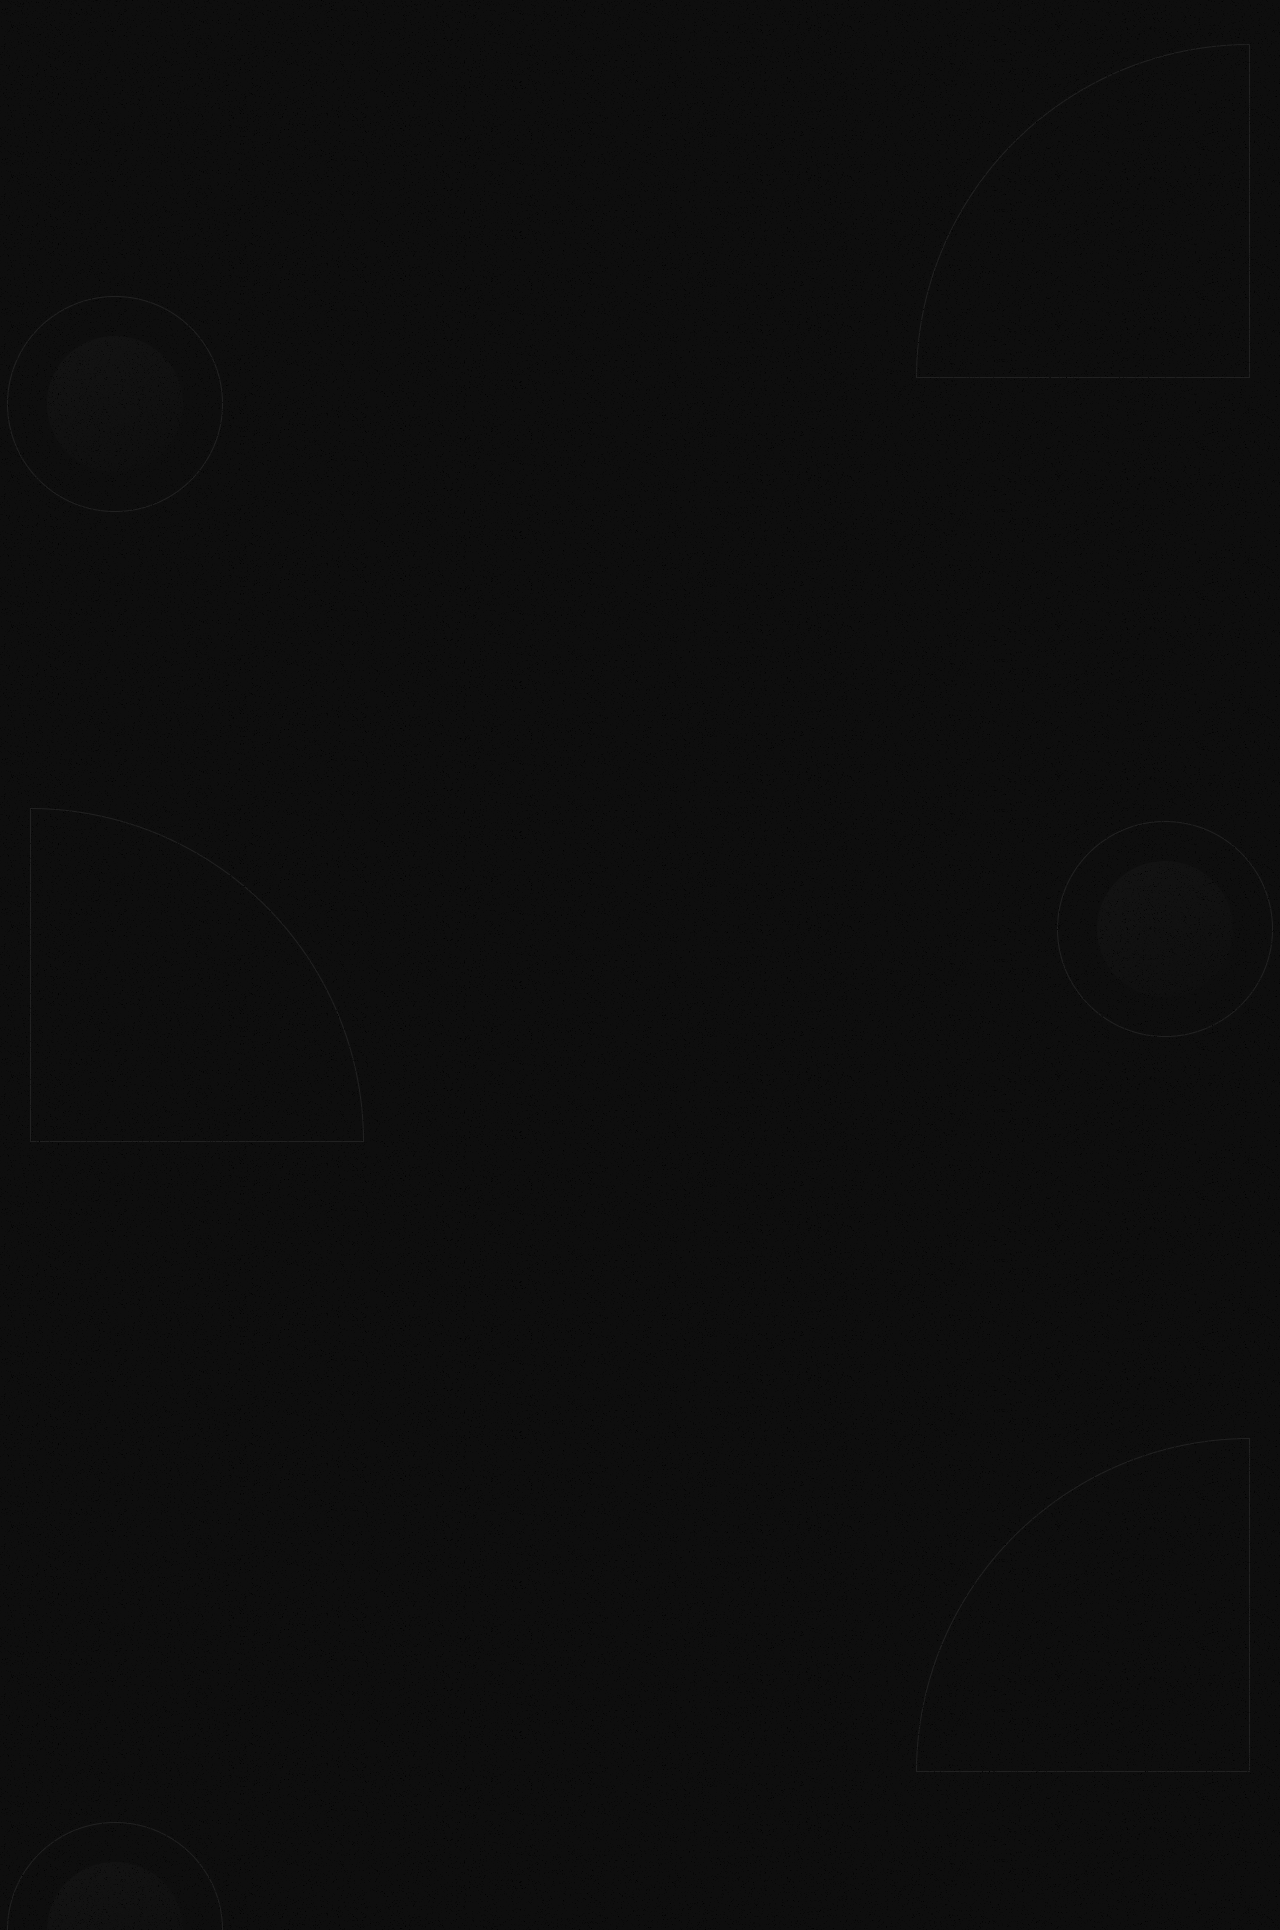
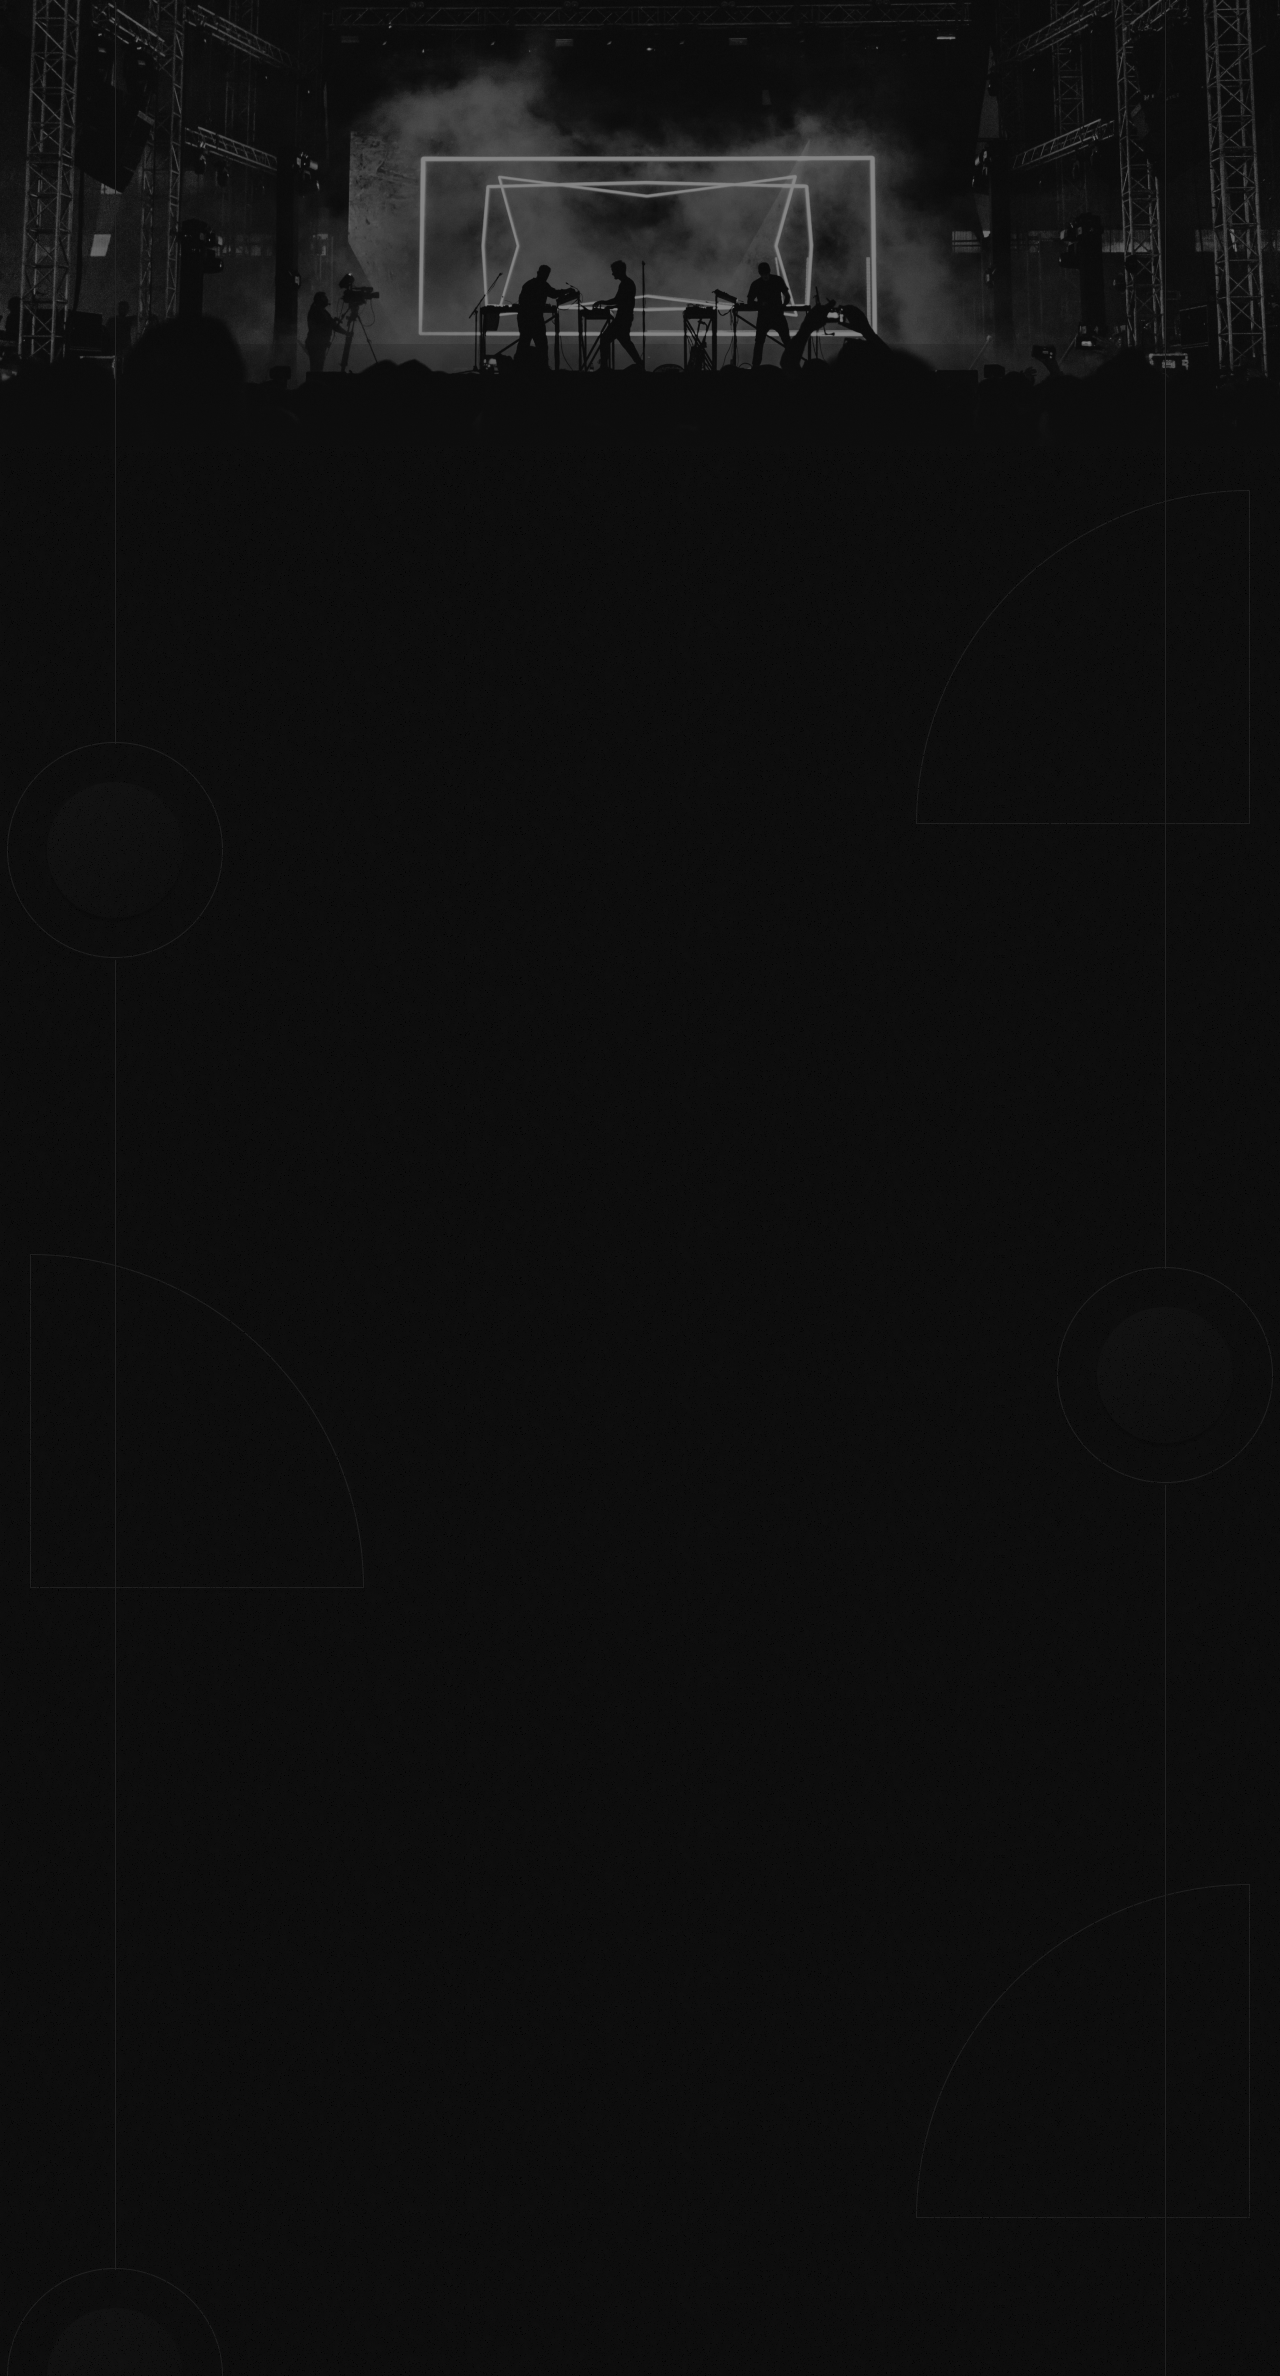
background rework

diff --git a/src/sass/layouts/_header-hero.scss b/src/sass/layouts/_header-hero.scss
@@ -53,79 +53,79 @@
   padding-right: auto;
   height: 364px;
   min-width: 320px;
-  background-size: contain;
-  background-repeat: no-repeat;
-  background-position: top center;
-  background-image: linear-gradient(
-      to top,
-      transparent,
-      var(--background-overlay),
-      var(--background-overlay),
-      var(--background-overlay)
-    ),
-    url(../../src/images/hero/hero-mob.jpg);
+  // background-size: contain;
+  // background-repeat: no-repeat;
+  // background-position: top center;
+  // background-image: linear-gradient(
+  //     to top,
+  //     transparent,
+  //     var(--background-overlay),
+  //     var(--background-overlay),
+  //     var(--background-overlay)
+  //   ),
+  //   url(../../src/images/hero/hero-mob.jpg);
 
-  @media (min-device-pixel-ratio: 2),
-    (min-resolution: 192dpi),
-    (min-resolution: 2dppx) {
-    background-image: linear-gradient(
-        to top,
-        transparent,
-        var(--background-overlay),
-        var(--background-overlay),
-        var(--background-overlay)
-      ),
-      url(../../src/images/hero/hero-mob-2x.jpg);
-  }
+  // @media (min-device-pixel-ratio: 2),
+  //   (min-resolution: 192dpi),
+  //   (min-resolution: 2dppx) {
+  //   background-image: linear-gradient(
+  //       to top,
+  //       transparent,
+  //       var(--background-overlay),
+  //       var(--background-overlay),
+  //       var(--background-overlay)
+  //     ),
+  //     url(../../src/images/hero/hero-mob-2x.jpg);
+  // }
 
-  @media screen and (min-width: 321px) {
-    background-image: linear-gradient(
-        to top,
-        transparent,
-        var(--background-overlay),
-        var(--background-overlay),
-        var(--background-overlay)
-      ),
-      url(../../src/images/hero/hero-tab.jpg);
+  // @media screen and (min-width: 321px) {
+  //   background-image: linear-gradient(
+  //       to top,
+  //       transparent,
+  //       var(--background-overlay),
+  //       var(--background-overlay),
+  //       var(--background-overlay)
+  //     ),
+  //     url(../../src/images/hero/hero-tab.jpg);
 
-    @media (min-device-pixel-ratio: 2),
-      (min-resolution: 192dpi),
-      (min-resolution: 2dppx) {
-      background-image: linear-gradient(
-          to top,
-          transparent,
-          var(--background-overlay),
-          var(--background-overlay),
-          var(--background-overlay)
-        ),
-        url(../../src/images/hero/hero-tab-2x.jpg);
-    }
-  }
+  //   @media (min-device-pixel-ratio: 2),
+  //     (min-resolution: 192dpi),
+  //     (min-resolution: 2dppx) {
+  //     background-image: linear-gradient(
+  //         to top,
+  //         transparent,
+  //         var(--background-overlay),
+  //         var(--background-overlay),
+  //         var(--background-overlay)
+  //       ),
+  //       url(../../src/images/hero/hero-tab-2x.jpg);
+  //   }
+  // }
 
-  @media screen and (min-width: 769px) {
-    height: 446px;
-    background-image: linear-gradient(
-        to top,
-        transparent,
-        var(--background-overlay),
-        var(--background-overlay),
-        var(--background-overlay)
-      ),
-      url(../../src/images/hero/hero-lap.jpg);
+  // @media screen and (min-width: 769px) {
+  //   height: 446px;
+  //   background-image: linear-gradient(
+  //       to top,
+  //       transparent,
+  //       var(--background-overlay),
+  //       var(--background-overlay),
+  //       var(--background-overlay)
+  //     ),
+  //     url(../../src/images/hero/hero-lap.jpg);
 
-    @media (min-device-pixel-ratio: 2),
-      (min-resolution: 192dpi),
-      (min-resolution: 2dppx) {
-      background-image: linear-gradient(
-          to top,
-          transparent,
-          var(--background-overlay),
-          var(--background-overlay),
-          var(--background-overlay)
-        ),
-        url(../../src/images/hero/hero-lap-2x.jpg);
-    }
-  }
+  //   @media (min-device-pixel-ratio: 2),
+  //     (min-resolution: 192dpi),
+  //     (min-resolution: 2dppx) {
+  //     background-image: linear-gradient(
+  //         to top,
+  //         transparent,
+  //         var(--background-overlay),
+  //         var(--background-overlay),
+  //         var(--background-overlay)
+  //       ),
+  //       url(../../src/images/hero/hero-lap-2x.jpg);
+  //   }
+  // }
 
   @media screen and (min-width: 1280px) {
     height: 446px;

diff --git a/src/sass/layouts/_bg.scss b/src/sass/layouts/_bg.scss
@@ -1,13 +1,13 @@
-
 // Версия без картинки героя в бэкграунде боди
 
- body {
-    background-repeat: no-repeat;
-    background-size: contain;
-    
-    background-color:var(--modal-text-color);
+body {
+  background-repeat: no-repeat;
+  background-size: cover;
+
+  background-color: var(--modal-text-color);
 
   @media screen and (max-width: 767px) {
+    background-size: contain;
     background-image: url(../images/background/mobile/bg-body-mob.png);
     @media (min-device-pixel-ratio: 2),
       (min-resolution: 192dpi),
@@ -17,31 +17,28 @@
   }
 
   @media screen and (min-width: 768px) and (max-width: 1279px) {
-
- background-size:595px,contain;
-  background-position:top,bottom;    
-    background-image:url(../images/background/tablet/decor-body-tabl.png), url(../images/background/tablet/bg-body-tabl.png)  ;
-    @media (min-device-pixel-ratio: 2), (min-resolution: 192dpi), (min-resolution: 2dppx) {
-      background-image: url(../images/background/tablet/decor-body-tabl@2x.png),url(../images/background/tablet/bg-body-tabl@2x.png);
-
+    background-size: contain;
+    background-image: url(../images/background/tablet/bg-body-tabl.png);
+    @media (min-device-pixel-ratio: 2),
+      (min-resolution: 192dpi),
+      (min-resolution: 2dppx) {
+      background-image: url(../images/background/tablet/bg-body-tabl@2x.png);
     }
   }
 
   @media screen and (min-width: 1280px) {
-
-    background-size:1050px,contain;
-    background-position:top,bottom; 
-     z-index:100,20;
-    background-image: url(../images/background/desktop/decor-desktop.png),url(../images/background/desktop/bg-body-desk.png);
-    @media (min-device-pixel-ratio: 2), (min-resolution: 192dpi), (min-resolution: 2dppx) {
-      background-image: url(../images/background/desktop/decor-desk@2x.png), url(../images/background/desktop/bg-body-desk@2x.png);
-
+    background-size: contain;
+    z-index: 100, 20;
+    background-image: url(../images/background/desktop/bg-body-desk.png);
+    @media (min-device-pixel-ratio: 2),
+      (min-resolution: 192dpi),
+      (min-resolution: 2dppx) {
+      background-image: url(../images/background/desktop/bg-body-desk@2x.png);
     }
   }
 }
 
 // Версия с картинкой героя в бэкграунде боди
-
 
 //  body {
 //     z-index:100;
@@ -49,7 +46,7 @@
 //     background-size: contain;
 //     background-color:var(--modal-text-color);
 //   @media screen and (max-width: 767px) {
-//     background-image: 
+//     background-image:
 //     url(../../src/images/hero/hero-mob.jpg),url(../images/background/mobile/bg-body-mob.png);
 //     @media (min-device-pixel-ratio: 2), (min-resolution: 192dpi), (min-resolution: 2dppx) {
 //       background-image: url(../../src/images/hero/hero-mob-2x.jpg), url(../images/background/mobile/bg-body-mob@2x.png);
@@ -58,8 +55,8 @@
 
 //   @media screen and (min-width: 768px) and (max-width: 1279px) {
 //  background-size:595px,contain,contain;
-//   background-position:top,top,bottom;    
-  
+//   background-position:top,top,bottom;
+
 //     background-image:url(../images/background/tablet/decor-body-tabl.png), url(../../src/images/hero/hero-tab.jpg),url(../images/background/tablet/bg-body-tabl.png);
 //     @media (min-device-pixel-ratio: 2), (min-resolution: 192dpi), (min-resolution: 2dppx) {
 //       background-image: url(../images/background/tablet/decor-body-tabl@2x.png), url(../../src/images/hero/hero-tab-2x.jpg),url(../images/background/tablet/bg-body-tabl@2x.png);
@@ -68,15 +65,14 @@
 
 //   @media screen and (min-width: 1280px) {
 //     background-size:1050px,contain,contain;
-//     background-position:top,top,bottom;  
-   
+//     background-position:top,top,bottom;
+
 //     background-image: url(../images/background/desktop/decor-desktop.png), url(../../src/images/hero/hero-lap.jpg),url(../images/background/desktop/bg-body-desk.png);
 //     @media (min-device-pixel-ratio: 2), (min-resolution: 192dpi), (min-resolution: 2dppx) {
 //       background-image: url(../images/background/desktop/decor-desk@2x.png), url(../../src/images/hero/hero-lap-2x.jpg),url(../images/background/desktop/bg-body-desk@2x.png);
 //     }
 //   }
 // }
-
 
 // body {
 //     // max-width:100%;
@@ -120,7 +116,6 @@
 //             }
 //         }
 //     }
-
 
 // linear-gradient(
 //       to top,

diff --git a/src/sass/base/_container.scss b/src/sass/base/_container.scss
@@ -13,6 +13,6 @@
     max-width: 1279px;
   }
   @media screen and (min-width: 1280px) {
-    max-width: 1280px;
+    max-width: 1440px;
   }
 }
